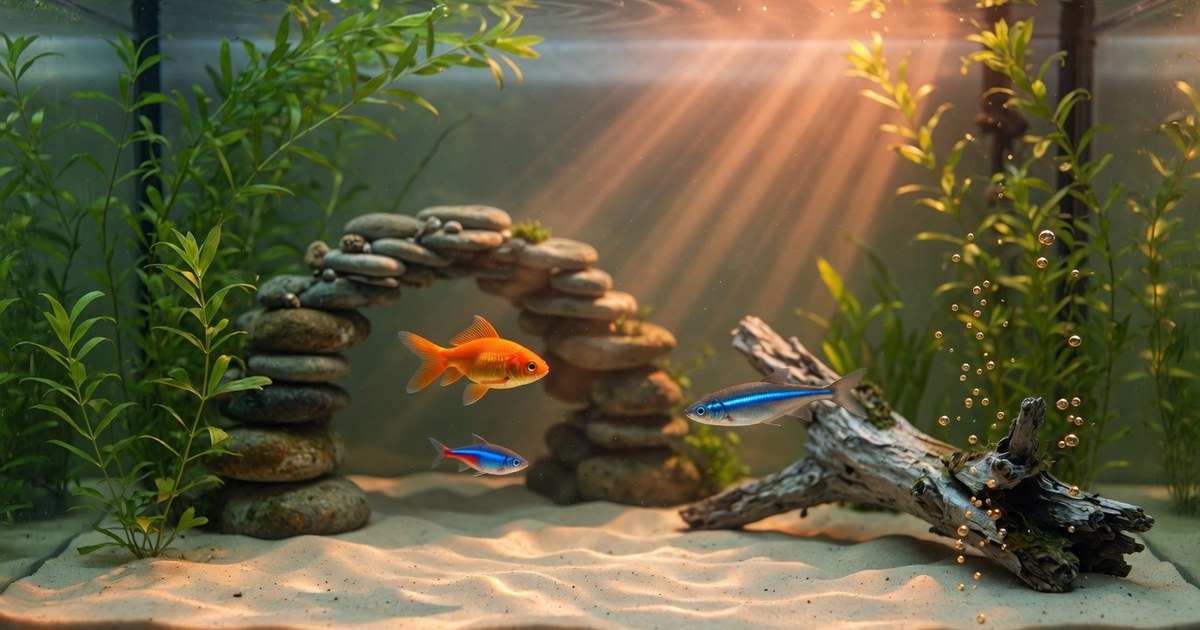
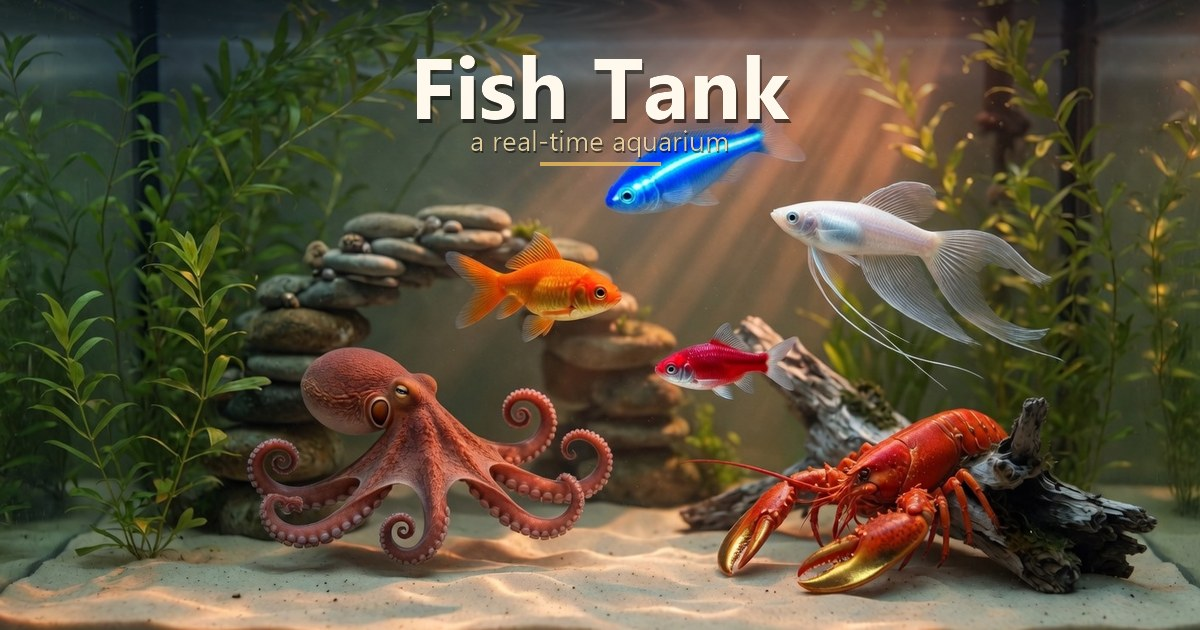
Fish Tank: share card shows the cast and the title.

diff --git a/games/fish-tank/index.html b/games/fish-tank/index.html
@@ -16,22 +16,22 @@
 <meta property="og:url" content="https://chatagent.ca/games/fish-tank/">
 <meta property="og:title" content="Fish Tank — real-time aquarium">
 <meta property="og:description" content="Name your fish, keep the water, and see who lasts. Thirteen species, including one octopus, LYGO Claw the lobster, and a reef crab. Six ages, day and night on the real clock. Cemetery hall ranks the longest lives.">
-<meta property="og:image" content="https://chatagent.ca/games/fish-tank/assets/og.jpg">
+<meta property="og:image" content="https://chatagent.ca/games/fish-tank/assets/og.jpg?v=2">
 <meta property="og:image:width" content="1200">
 <meta property="og:image:height" content="630">
-<meta property="og:image:alt" content="Golden-hour aquarium with a goldfish, a blue stripe fish, plants, and a stone arch">
+<meta property="og:image:alt" content="Fish Tank title over a golden aquarium with a goldfish, a blue stripe, an octopus, and a gold-clawed lobster">
 <meta name="twitter:card" content="summary_large_image">
 <meta name="twitter:title" content="Fish Tank — real-time aquarium">
 <meta name="twitter:description" content="Thirteen species, including one octopus, LYGO Claw the lobster, and a reef crab. Six ages, real day and night. Local save. Cemetery hall. No account.">
-<meta name="twitter:image" content="https://chatagent.ca/games/fish-tank/assets/og.jpg">
-<meta name="twitter:image:alt" content="Golden-hour aquarium with a goldfish, a blue stripe fish, plants, and a stone arch">
+<meta name="twitter:image" content="https://chatagent.ca/games/fish-tank/assets/og.jpg?v=2">
+<meta name="twitter:image:alt" content="Fish Tank title over a golden aquarium with a goldfish, a blue stripe, an octopus, and a gold-clawed lobster">
 <script type="application/ld+json">
 {
   "@context": "https://schema.org",
   "@type": "VideoGame",
   "name": "Fish Tank",
   "url": "https://chatagent.ca/games/fish-tank/",
-  "image": "https://chatagent.ca/games/fish-tank/assets/og.jpg",
+  "image": "https://chatagent.ca/games/fish-tank/assets/og.jpg?v=2",
   "description": "Free real-time aquarium. Thirteen species, including one octopus, LYGO Claw the lobster, and a reef crab, grow through six ages. Cleaners keep algae and water quality in check. Local save. Cemetery hall ranks hours lived.",
   "genre": ["Simulation", "Casual"],
   "playMode": "SinglePlayer",

diff --git a/games/fish-tank/ledger.html b/games/fish-tank/ledger.html
@@ -10,9 +10,9 @@
 <link rel="icon" type="image/svg+xml" href="./favicon.svg">
 <meta property="og:title" content="Fish Tank — Cemetery hall">
 <meta property="og:description" content="Longest aquarium lives, in hours. Names and species only.">
-<meta property="og:image" content="https://chatagent.ca/games/fish-tank/assets/og.jpg">
+<meta property="og:image" content="https://chatagent.ca/games/fish-tank/assets/og.jpg?v=2">
 <meta name="twitter:card" content="summary_large_image">
-<meta name="twitter:image" content="https://chatagent.ca/games/fish-tank/assets/og.jpg">
+<meta name="twitter:image" content="https://chatagent.ca/games/fish-tank/assets/og.jpg?v=2">
 <link href="https://fonts.googleapis.com/css2?family=IBM+Plex+Mono:wght@400;500&family=Syne:wght@700&family=Source+Sans+3:wght@400;600&display=swap" rel="stylesheet">
 <style>
 body { margin:0; background:#071018; color:#e8eef5; font-family:"Source Sans 3",system-ui,sans-serif; }

diff --git a/games/index.html b/games/index.html
@@ -248,7 +248,7 @@
       </div>
     </article>
     <article class="gcard">
-      <div class="gmod-stage"><img class="gcard-cover" src="/games/fish-tank/assets/og.jpg" alt="Daylight aquarium with plants, stones, and driftwood" width="640" height="336"></div>
+      <div class="gmod-stage"><img class="gcard-cover" src="/games/fish-tank/assets/og.jpg?v=2" alt="Fish Tank title over a golden aquarium with a goldfish, a blue stripe, an octopus, and a gold-clawed lobster" width="640" height="336"></div>
       <div class="gcard-body">
         <p class="gcard-kicker">sim · real time</p>
         <h2>Fish Tank</h2>
